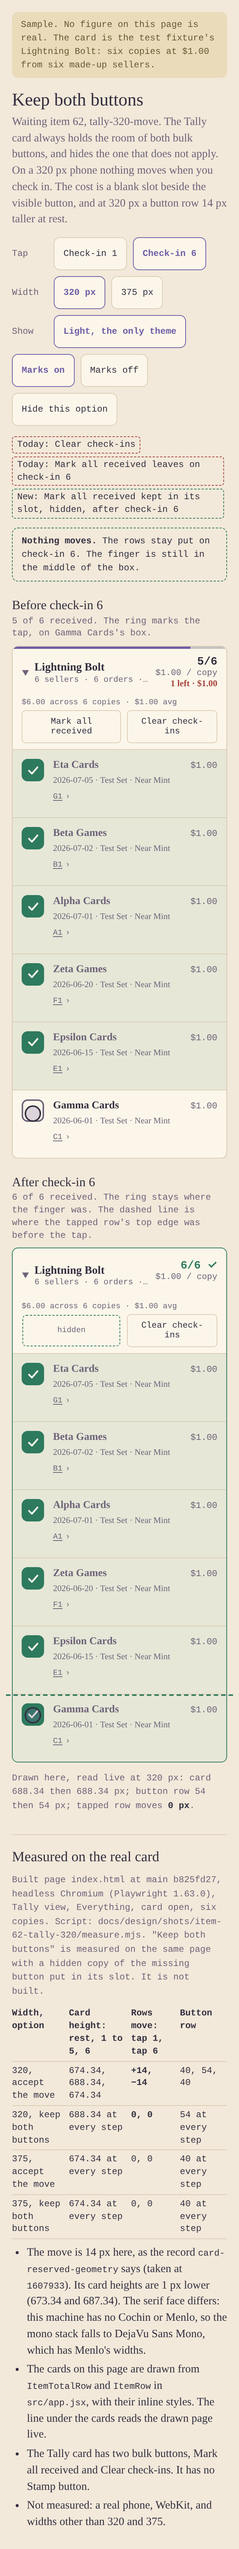
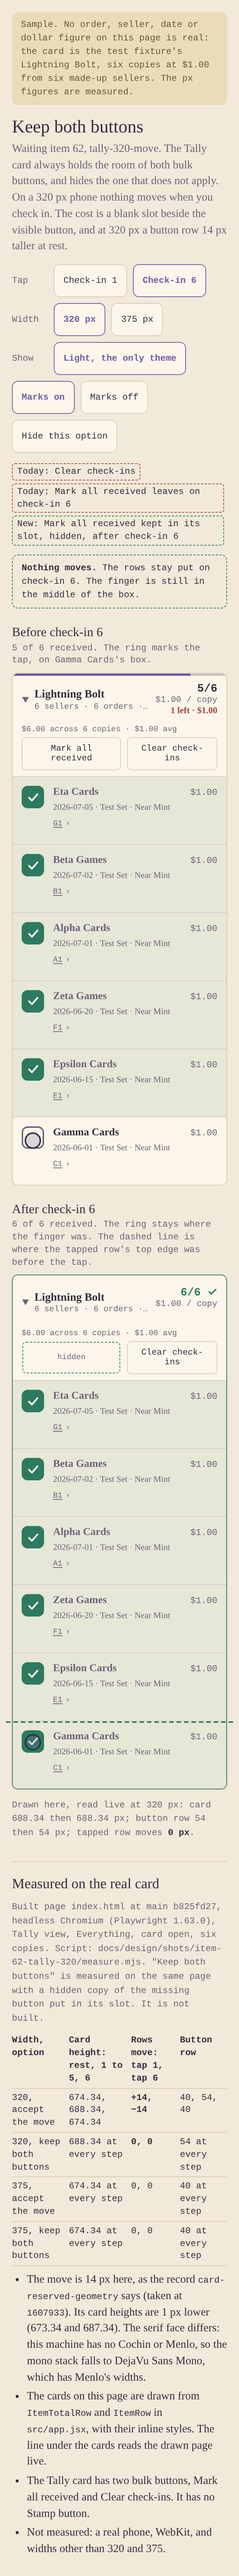
Focus the item-62 mockups on the before and after pair
The focus wraps both frames, so the two options differ at either
check-in. The banner says which figures are sample and which are
measured. The notes name the sizes' source and the light-only theme.

Claude-Session: https://claude.ai/code/session_01MVD32QwJssa7Z1yu87xrPz

diff --git a/docs/design/item-62-tally-320/a.html b/docs/design/item-62-tally-320/a.html
@@ -70,7 +70,7 @@ code { font:12px/1.4 var(--mono); }
 </head>
 <body>
 <main>
-<div class="banner" role="note">Sample. No figure on this page is real. The card is the test fixture's Lightning Bolt: six copies at $1.00 from six made-up sellers.</div>
+<div class="banner" role="note">Sample. No order, seller, date or dollar figure on this page is real: the card is the test fixture's Lightning Bolt, six copies at $1.00 from six made-up sellers. The px figures are measured.</div>
 <h1 id="title">Keep both buttons</h1>
 <p class="sub" id="sub"></p>
 
@@ -95,10 +95,12 @@ code { font:12px/1.4 var(--mono); }
 <div id="option">
   <div class="tags" id="tags"></div>
   <p class="verdict" id="verdict"></p>
+  <div id="choice">
   <p class="cap" id="cap-before"></p>
   <div class="scroll"><div class="frame" id="before"></div></div>
   <p class="cap" id="cap-after"></p>
   <div class="scroll"><div class="frame" id="after"></div></div>
+  </div>
   <p class="read" id="read"></p>
 </div>
 
@@ -239,7 +241,7 @@ function render() {
   const before = document.getElementById("before"), after = document.getElementById("after");
   for (const f of [before, after]) f.style.width = width + "px";
   before.innerHTML = tallyCard(from);
-  after.innerHTML = tallyCard(step, "choice");
+  after.innerHTML = tallyCard(step);
   document.getElementById("cap-before").innerHTML = `Before check-in ${step} <small>${from} of 6 received. The ring marks the tap, on ${esc(ROWS[tapped].seller)}'s box.</small>`;
   document.getElementById("cap-after").innerHTML = `After check-in ${step} <small>${step} of 6 received. The ring stays where the finger was. The dashed line is where the tapped row's top edge was before the tap.</small>`;
 

diff --git a/docs/design/item-62-tally-320/b.html b/docs/design/item-62-tally-320/b.html
@@ -70,7 +70,7 @@ code { font:12px/1.4 var(--mono); }
 </head>
 <body>
 <main>
-<div class="banner" role="note">Sample. No figure on this page is real. The card is the test fixture's Lightning Bolt: six copies at $1.00 from six made-up sellers.</div>
+<div class="banner" role="note">Sample. No order, seller, date or dollar figure on this page is real: the card is the test fixture's Lightning Bolt, six copies at $1.00 from six made-up sellers. The px figures are measured.</div>
 <h1 id="title">Accept the move</h1>
 <p class="sub" id="sub"></p>
 
@@ -95,10 +95,12 @@ code { font:12px/1.4 var(--mono); }
 <div id="option">
   <div class="tags" id="tags"></div>
   <p class="verdict" id="verdict"></p>
+  <div id="choice">
   <p class="cap" id="cap-before"></p>
   <div class="scroll"><div class="frame" id="before"></div></div>
   <p class="cap" id="cap-after"></p>
   <div class="scroll"><div class="frame" id="after"></div></div>
+  </div>
   <p class="read" id="read"></p>
 </div>
 
@@ -239,7 +241,7 @@ function render() {
   const before = document.getElementById("before"), after = document.getElementById("after");
   for (const f of [before, after]) f.style.width = width + "px";
   before.innerHTML = tallyCard(from);
-  after.innerHTML = tallyCard(step, "choice");
+  after.innerHTML = tallyCard(step);
   document.getElementById("cap-before").innerHTML = `Before check-in ${step} <small>${from} of 6 received. The ring marks the tap, on ${esc(ROWS[tapped].seller)}'s box.</small>`;
   document.getElementById("cap-after").innerHTML = `After check-in ${step} <small>${step} of 6 received. The ring stays where the finger was. The dashed line is where the tapped row's top edge was before the tap.</small>`;
 

diff --git a/docs/design/item-62-tally-320/notes.md b/docs/design/item-62-tally-320/notes.md
@@ -14,4 +14,6 @@ Mockups: `a.html` (Keep both buttons) and `b.html` (Accept the move). Shots: `..
 
 6. **What is measured and what is drawn.** `../shots/item-62-tally-320/measure.mjs` measures the built `index.html` at main `b825fd27`. Keep both buttons is measured on that page with a hidden copy of the missing button put in its slot. It is not built code. The four PNGs are shots of the drawn mockups (`capture.mjs`). Their card heights, button-row heights and row moves equal the measured ones to 0.01 px at 320 px. Fonts: this machine has no Cochin or Menlo. The mono stack falls to DejaVu Sans Mono, which has Menlo's widths. The record's heights at `1607933` are 1 px lower (673.34 and 687.34), and its 14 px move is the same. Unmeasured: a real phone, WebKit, and any width other than 320 and 375 px.
 
-7. **Marks.** The ring marks the tap and stays where the finger was. The dashed line is the tapped row's old top. The dashed green box marks the hidden slot, which is invisible in the build. Marks off (`#g=off`) shows the true look.
+7. **Sizes and theme.** `layout.py devices` returns `unknown` for this repo, so 320 px comes from the item and 375 px from `WIDTHS` in `test/screens.mjs`. Light only: `src/app.jsx` reads no `dark*` token and has no `prefers-color-scheme` rule. The `dark*` tokens in `shared/tokens.json` serve other clients. The waiting page's focus for both pages is `#choice`, the before and after pair.
+
+8. **Marks.** The ring marks the tap and stays where the finger was. The dashed line is the tapped row's old top. The dashed green box marks the hidden slot, which is invisible in the build. Marks off (`#g=off`) shows the true look.
